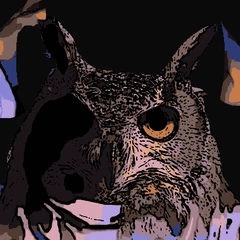
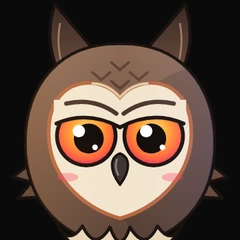
Portada: cabeza de búho estilo anime que se aparta al pasar el ratón y revela la cara
Claude-Session: https://claude.ai/code/session_01NEzbccjhWNBMk8itoPmEQH

diff --git a/index.html b/index.html
@@ -71,8 +71,120 @@
             </h1>
 
             <div class="hero__glow" aria-hidden="true"></div>
-            <img class="hero__photo" id="hero-photo" src="Img/fernando.webp" alt="Fernando Puche con cabeza de búho">
-            <img class="hero__photo hero__real" id="hero-real" src="Img/fernando-real.webp" alt="" aria-hidden="true">
+            <!-- Tu foto real + la cabeza de búho encima (mismo contenedor = misma posición siempre) -->
+            <div class="hero__figure" id="hero-figure">
+                <img class="hero__face" src="Img/fernando-real.webp" alt="Fernando Puche">
+                <div class="hero__owl" id="hero-owl" role="button" tabindex="0" aria-label="Quitar el búho y ver mi cara">
+                    <svg xmlns="http://www.w3.org/2000/svg" viewBox="0 0 400 470" aria-hidden="true">
+                      <defs>
+                        <linearGradient id="bPluma" x1="0" y1="0" x2="0" y2="1">
+                          <stop offset="0" stop-color="#8d6a55"/>
+                          <stop offset="1" stop-color="#5c4236"/>
+                        </linearGradient>
+                        <linearGradient id="bOreja" x1="0" y1="0" x2="0" y2="1">
+                          <stop offset="0" stop-color="#3a2a24"/>
+                          <stop offset="1" stop-color="#6e5040"/>
+                        </linearGradient>
+                        <radialGradient id="bIris" cx="50%" cy="42%" r="60%">
+                          <stop offset="0" stop-color="#ffe08a"/>
+                          <stop offset=".45" stop-color="#ffa22e"/>
+                          <stop offset=".85" stop-color="#ff5a3c"/>
+                          <stop offset="1" stop-color="#e8304f"/>
+                        </radialGradient>
+                        <linearGradient id="bLuz" x1="0" y1="0" x2="1" y2="0">
+                          <stop offset="0" stop-color="#ffb066" stop-opacity=".55"/>
+                          <stop offset=".5" stop-color="#ffffff" stop-opacity="0"/>
+                          <stop offset="1" stop-color="#6f8bff" stop-opacity=".55"/>
+                        </linearGradient>
+                        <clipPath id="bCabeza">
+                          <path d="M200 70 C295 68 352 135 352 228 C352 322 295 388 200 392 C105 388 48 322 48 228 C48 135 105 68 200 70 Z"/>
+                        </clipPath>
+                        <clipPath id="bOjoI"><circle cx="146" cy="218" r="48"/></clipPath>
+                        <clipPath id="bOjoD"><circle cx="254" cy="218" r="48"/></clipPath>
+                      </defs>
+                    
+                      <g stroke="#1a1210" stroke-width="5" stroke-linejoin="round" stroke-linecap="round">
+                        <!-- Penachos (orejas) -->
+                        <path d="M108 128 C82 82 84 40 96 6 C122 40 152 70 170 96 Z" fill="url(#bOreja)"/>
+                        <path d="M292 128 C318 82 316 40 304 6 C278 40 248 70 230 96 Z" fill="url(#bOreja)"/>
+                        <path d="M110 112 C100 84 100 58 104 38" fill="none" stroke="#a37c63" stroke-width="3"/>
+                        <path d="M290 112 C300 84 300 58 296 38" fill="none" stroke="#a37c63" stroke-width="3"/>
+                    
+                        <!-- Plumas laterales -->
+                        <path d="M56 262 L28 284 L58 292 L36 318 L70 316 Z" fill="#6a4c3e"/>
+                        <path d="M344 262 L372 284 L342 292 L364 318 L330 316 Z" fill="#6a4c3e"/>
+                    
+                        <!-- Cabeza -->
+                        <path d="M200 70 C295 68 352 135 352 228 C352 322 295 388 200 392 C105 388 48 322 48 228 C48 135 105 68 200 70 Z" fill="url(#bPluma)"/>
+                      </g>
+                    
+                      <g clip-path="url(#bCabeza)">
+                        <!-- sombra suave (cel shading) -->
+                        <circle cx="350" cy="270" r="165" fill="#1a1210" opacity=".16"/>
+                        <!-- plumas de la frente -->
+                        <g fill="none" stroke="#4a342b" stroke-width="4" stroke-linecap="round" opacity=".7">
+                          <path d="M186 100 L200 112 L214 100"/>
+                          <path d="M156 116 L170 128 L184 116"/>
+                          <path d="M216 116 L230 128 L244 116"/>
+                          <path d="M186 130 L200 142 L214 130"/>
+                        </g>
+                      </g>
+                    
+                      <!-- Disco facial en forma de corazón -->
+                      <path d="M200 156 C170 118 92 122 86 202 C80 280 140 334 200 350 C260 334 320 280 314 202 C308 122 230 118 200 156 Z"
+                            fill="#f2e4cd" stroke="#b5653f" stroke-width="6"/>
+                      <path d="M200 156 C186 140 170 134 156 134" fill="none" stroke="#e0c9a8" stroke-width="4" stroke-linecap="round"/>
+                      <path d="M200 156 C214 140 230 134 244 134" fill="none" stroke="#e0c9a8" stroke-width="4" stroke-linecap="round"/>
+                    
+                      <!-- Ojos -->
+                      <g>
+                        <circle cx="146" cy="218" r="50" fill="#1a1210"/>
+                        <circle cx="254" cy="218" r="50" fill="#1a1210"/>
+                        <g clip-path="url(#bOjoI)">
+                          <circle cx="146" cy="218" r="44" fill="url(#bIris)"/>
+                          <circle cx="150" cy="222" r="24" fill="#120c0a"/>
+                        </g>
+                        <g clip-path="url(#bOjoD)">
+                          <circle cx="254" cy="218" r="44" fill="url(#bIris)"/>
+                          <circle cx="250" cy="222" r="24" fill="#120c0a"/>
+                        </g>
+                        <!-- párpado superior (mirada segura): tapa también el borde del ojo -->
+                        <path d="M94 199 Q148 175 202 203 L202 160 L94 160 Z" fill="#f2e4cd"/>
+                        <path d="M306 199 Q252 175 198 203 L198 160 L306 160 Z" fill="#f2e4cd"/>
+                        <path d="M98 198 Q148 176 200 204" fill="none" stroke="#1a1210" stroke-width="6" stroke-linecap="round"/>
+                        <path d="M302 198 Q252 176 200 204" fill="none" stroke="#1a1210" stroke-width="6" stroke-linecap="round"/>
+                        <!-- brillos estilo anime -->
+                        <circle cx="134" cy="210" r="10" fill="#fff"/>
+                        <circle cx="160" cy="236" r="4.5" fill="#fff"/>
+                        <circle cx="242" cy="210" r="10" fill="#fff"/>
+                        <circle cx="268" cy="236" r="4.5" fill="#fff"/>
+                        <!-- cejas de plumas -->
+                        <path d="M114 166 Q158 156 194 182" fill="none" stroke="#4a342b" stroke-width="7" stroke-linecap="round"/>
+                        <path d="M286 166 Q242 156 206 182" fill="none" stroke="#4a342b" stroke-width="7" stroke-linecap="round"/>
+                      </g>
+                    
+                      <!-- Rubor -->
+                      <ellipse cx="116" cy="284" rx="17" ry="7" fill="#ff3b5c" opacity=".35"/>
+                      <ellipse cx="284" cy="284" rx="17" ry="7" fill="#ff3b5c" opacity=".35"/>
+                    
+                      <!-- Pico -->
+                      <path d="M200 246 C216 252 218 272 200 296 C182 272 184 252 200 246 Z" fill="#3e3634" stroke="#1a1210" stroke-width="4" stroke-linejoin="round"/>
+                      <path d="M195 256 C192 264 193 272 197 280" fill="none" stroke="#8a7f7a" stroke-width="3" stroke-linecap="round"/>
+                    
+                      <!-- Gorguera (plumas del cuello) -->
+                      <path d="M96 352 Q116 398 140 362 Q160 404 184 364 Q200 410 216 364 Q240 404 260 362 Q284 398 304 352 C282 400 244 424 200 424 C156 424 118 400 96 352 Z"
+                            fill="#e9d6b8" stroke="#1a1210" stroke-width="5" stroke-linejoin="round"/>
+                      <g fill="none" stroke="#b9987a" stroke-width="3" stroke-linecap="round">
+                        <path d="M150 396 L160 406 L170 396"/><path d="M190 404 L200 414 L210 404"/><path d="M230 396 L240 406 L250 396"/>
+                      </g>
+                    
+                      <!-- Luz de estudio (naranja izquierda, azul derecha) para integrarlo con la foto -->
+                      <g clip-path="url(#bCabeza)" style="mix-blend-mode:soft-light">
+                        <rect x="0" y="0" width="400" height="470" fill="url(#bLuz)"/>
+                      </g>
+                    </svg>
+                </div>
+            </div>
 
             <!-- Firma (se "dibuja" sola al cargar) -->
             <svg class="hero__sign" viewBox="0 0 600 220" aria-hidden="true">

diff --git a/css/estilos.css b/css/estilos.css
@@ -1104,14 +1104,45 @@ video.wcard__img { background: var(--ink-2); }
 /* Avatar del menú (búho) */
 .header__avatar img { width: 100%; height: 100%; object-fit: cover; }
 
-/* ---------- PORTADA: LENTE QUE DESCUBRE LA CARA REAL ---------- */
-.hero { --lx: -999px; --ly: -999px; --lr: 0px; }
-.hero.is-lens { --lr: 120px; }
-.hero__real { clip-path: circle(var(--lr) at var(--lx) var(--ly)); }
-/* el búho se "agujerea" justo donde está la lente */
-.hero.is-lens .hero__photo:not(.hero__real) {
-    -webkit-mask-image: radial-gradient(circle var(--lr) at var(--lx) var(--ly), transparent 98%, #000 100%);
-            mask-image: radial-gradient(circle var(--lr) at var(--lx) var(--ly), transparent 98%, #000 100%);
+/* ---------- PORTADA: BÚHO ENCIMA DE LA CABEZA ---------- */
+/* El contenedor tiene la misma proporción que la foto (2066 x 1194),
+   así la cabeza del búho (en %) cae siempre exactamente sobre la cabeza. */
+.hero__figure {
+    position: absolute;
+    left: 50%;
+    bottom: 0;
+    z-index: 2;
+    width: min(88vw, 1150px, calc(72svh * 2066 / 1194));
+    aspect-ratio: 2066 / 1194;
+    transform: translate(-50%, 30px) scale(.96);
+    opacity: 0;
+    transition: transform 1.4s var(--ease) .35s, opacity 1s ease .35s;
+    pointer-events: none;
+    filter: drop-shadow(0 30px 60px rgba(0,0,0,.6));
 }
-.hero.is-open .hero__real { clip-path: circle(150% at 50% 40%); }
-.hero.is-open .hero__photo:not(.hero__real) { opacity: 0; transition: opacity .6s ease; }
+.is-ready .hero__figure { transform: translate(-50%, 0) scale(1); opacity: 1; }
+.hero__face { position: absolute; inset: 0; width: 100%; height: 100%; }
+.hero__owl {
+    position: absolute;
+    left: 51.5%;
+    top: -9.5%;
+    width: 42%;
+    transform: translateX(-50%);
+    transform-origin: 50% 85%;
+    pointer-events: auto;
+    cursor: pointer;
+    outline: none;
+    transition: transform .7s var(--ease), opacity .55s ease, filter .55s ease;
+}
+.hero__owl svg { display: block; width: 100%; height: auto; overflow: visible; }
+/* Al pasar el ratón (o con teclado / toque): el búho se aparta hacia arriba y se desvanece */
+.hero__owl:hover,
+.hero__owl:focus-visible,
+.hero__owl.is-off {
+    transform: translateX(-50%) translateY(-28%) rotate(-10deg) scale(1.04);
+    opacity: 0;
+    filter: blur(2px);
+}
+@media (max-width: 760px) {
+    .hero__figure { width: min(185vw, calc(66svh * 2066 / 1194)); }
+}

diff --git a/JS/app.js b/JS/app.js
@@ -325,30 +325,18 @@ function initAboutLens() {
     caja.addEventListener('click', function () { caja.classList.toggle('is-open'); });
 }
 
-// ---------- PORTADA: LENTE QUE DESCUBRE TU CARA REAL ----------
-function initHeroLens() {
-    var hero = document.querySelector('.hero');
-    var real = document.getElementById('hero-real');
-    if (!hero || !real) return;
-
-    hero.addEventListener('mousemove', function (e) {
-        var r = real.getBoundingClientRect();
-        var x = e.clientX - r.left, y = e.clientY - r.top;
-        // La lente solo aparece encima de la figura (no en las letras ni en el fondo)
-        var dentro = x > r.width * 0.12 && x < r.width * 0.88 && y > 0 && y < r.height;
-        hero.classList.toggle('is-lens', dentro);
-        if (dentro) {
-            hero.style.setProperty('--lx', x + 'px');
-            hero.style.setProperty('--ly', y + 'px');
-        }
+// ---------- PORTADA: BÚHO QUE SE APARTA ----------
+// En ordenador funciona solo con CSS (:hover). Aquí solo añadimos el toque en móvil
+// y la tecla Enter / Espacio para quien navega con teclado.
+function initOwl() {
+    var owl = document.getElementById('hero-owl');
+    if (!owl) return;
+    function alternar() { owl.classList.toggle('is-off'); }
+    owl.addEventListener('click', function () {
+        if (window.matchMedia('(hover: none)').matches) alternar();
     });
-    hero.addEventListener('mouseleave', function () { hero.classList.remove('is-lens'); });
-
-    // En móvil: tocar la figura enseña la cara entera; tocar otra vez vuelve al búho
-    hero.addEventListener('click', function (e) {
-        if (!window.matchMedia('(pointer: coarse)').matches) return;
-        var r = real.getBoundingClientRect();
-        if (e.clientY > r.top && e.clientY < r.bottom) hero.classList.toggle('is-open');
+    owl.addEventListener('keydown', function (e) {
+        if (e.key === 'Enter' || e.key === ' ') { e.preventDefault(); alternar(); }
     });
 }
 
@@ -438,7 +426,7 @@ document.addEventListener('DOMContentLoaded', function () {
         initStrip();
         initReel();
         initAboutLens();
-        initHeroLens();
+        initOwl();
         initCopyMail();
         // Esperamos a la vez a la animación de carga y a los datos
         var cargaLista = new Promise(function (ok) { initLoader(ok); });
